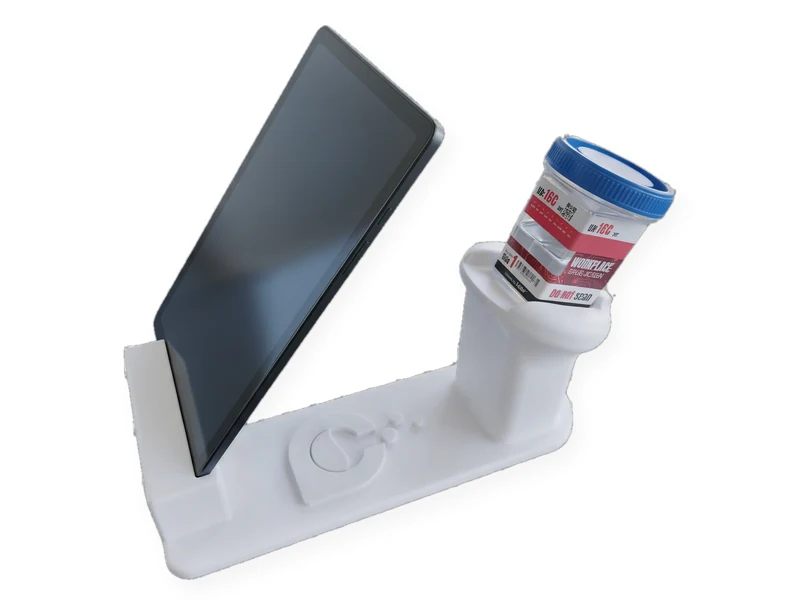
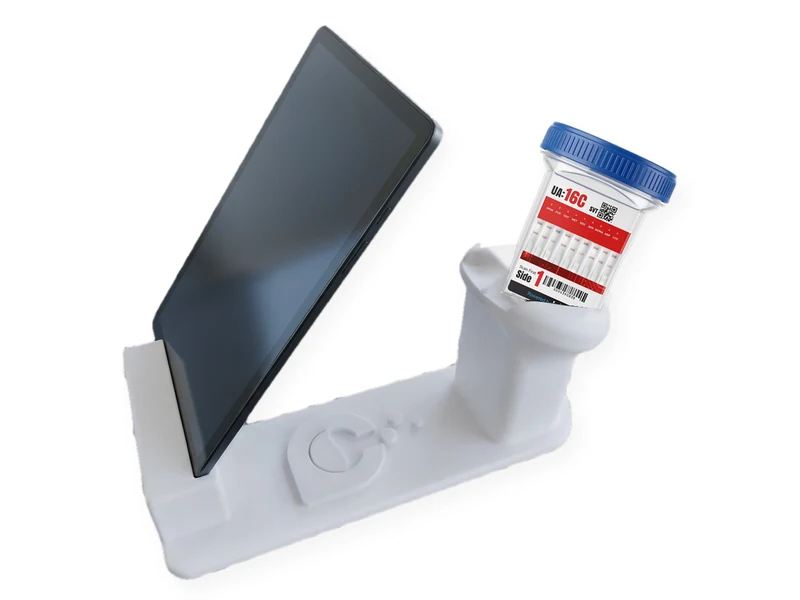
Fewer mistakes tile: real UA:16C face with lines, cleaner stand edges
Claude-Session: https://claude.ai/code/session_01KcM2dKoQ8f2RZtp5KgE56T

diff --git a/app/page.tsx b/app/page.tsx
@@ -28,7 +28,7 @@ const story = [
 const outcomes = [
   { title: "Results you can stand behind", g: "outcome-defensible", alt: "A Labb drug test result form showing a negative result with donor and specimen details", body: "Every test is read objectively and documented with the image, so results hold up when they are questioned.", topic: "Outcome: defensible results" },
   { title: "Faster decisions", g: "outcome-faster", alt: "A Labb UA:13A eTest Cup with test lines showing in the result window", body: "Rapid results on site, and confirmation with one button when it is needed. Hire, treat or act the same day.", topic: "Outcome: faster decisions" },
-  { title: "Fewer mistakes", g: "outcome-fewer-errors", alt: "A Labb testing station with a tablet and a UA:16C eTest Cup in its holder", body: "Guided steps, ID scanning and automatic paperwork remove the errors that come from manual forms.", topic: "Outcome: fewer mistakes" },
+  { title: "Fewer mistakes", g: "outcome-fewer-errors", alt: "A Labb testing station with a tablet and a UA:16C eTest Cup showing test and control lines", body: "Guided steps, ID scanning and automatic paperwork remove the errors that come from manual forms.", topic: "Outcome: fewer mistakes" },
   { title: "Privacy protected", g: "outcome-privacy", body: "Masked drug names and digital records keep donor information private.", topic: "Outcome: privacy" },
   { title: "Programs that grow", g: "outcome-growth", body: "LabbHR gives testing businesses the tools to sell, contract and bill, and One by Labb connects them to the industry.", topic: "Outcome: growth" },
   { title: "Less work for your team", g: "outcome-less-work", body: "Fee collection, notifications and records run remotely, so staff manage more with less effort.", topic: "Outcome: less work" },
